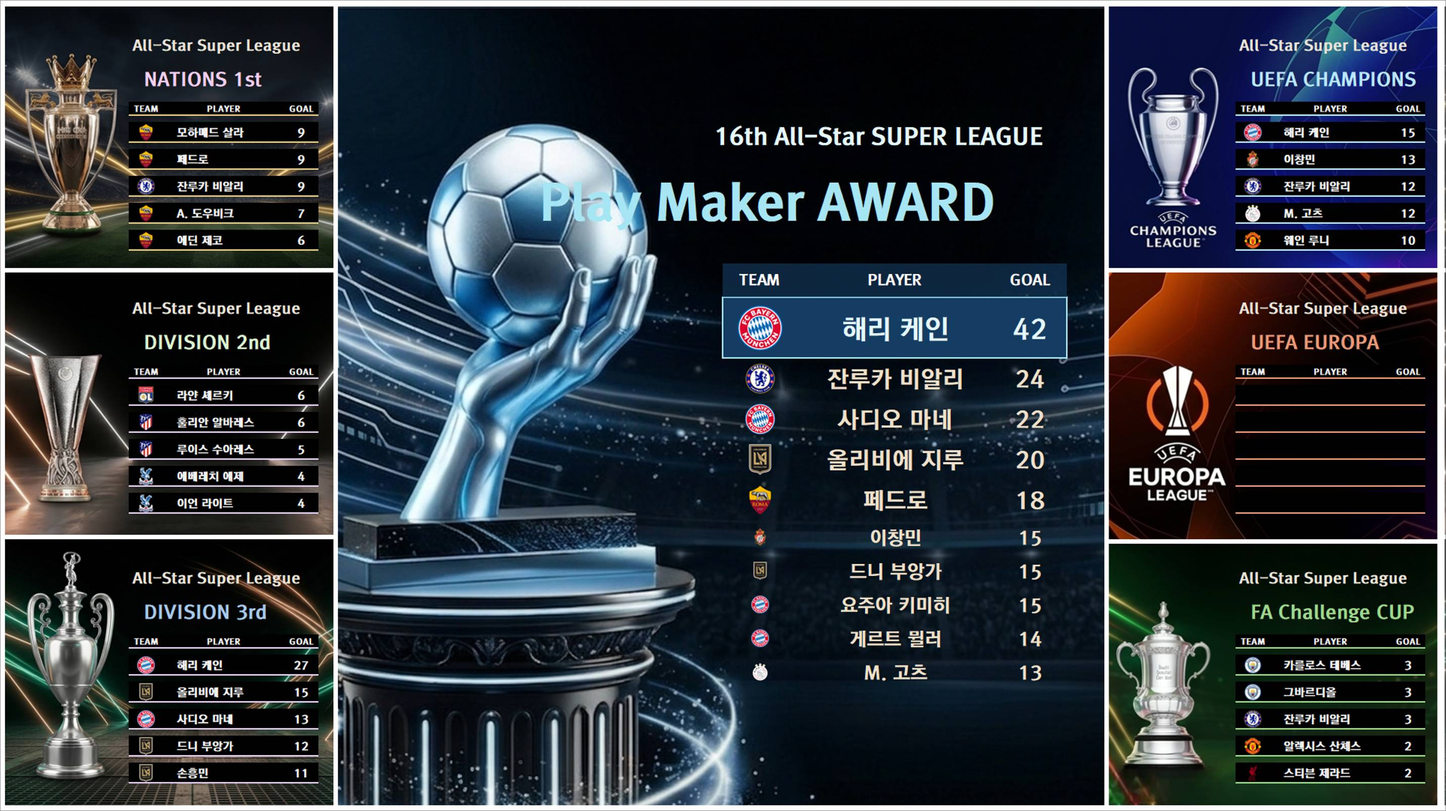
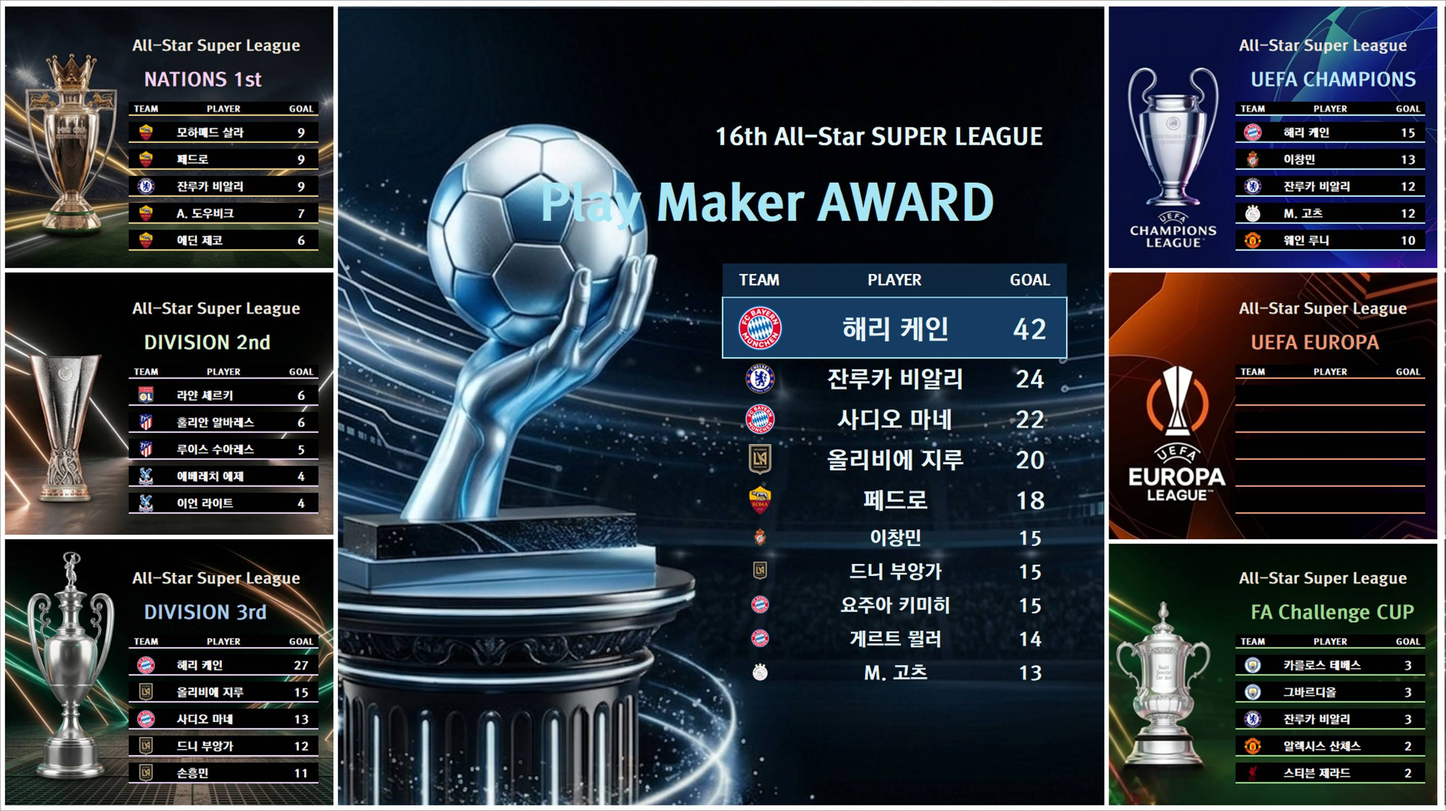
Optimize: 10:55:45

Changed region(s): [[0.5908, 0.6538, 0.653, 0.8406], [0.5597, 0.4359, 0.653, 0.5293], [0.5597, 0.5604, 0.6841, 0.6227]]

diff --git a/index.html b/index.html
@@ -75,7 +75,7 @@
         <div class="card"><h2>🏅 FA컵 8강·4강·결승</h2><img src="https://i.ibb.co/KppyCLxB/af9e95054181.jpg" alt="FA컵" loading="lazy"></div>
         <div class="card"><h2>🌟 UCL GROUP</h2><img src="https://i.ibb.co/KcbPzXNS/4886de444da8.jpg" alt="UCL 조별" loading="lazy"></div>
         <div class="card"><h2>⚽ GOLDEN BOOT</h2><img src="https://i.ibb.co/5h6tbQdP/52176942527f.jpg" alt="득점왕" loading="lazy"></div>
-        <div class="card"><h2>🎯 PLAYMAKER</h2><img src="https://i.ibb.co/35qwCL3y/9b072f1e2e94.jpg" alt="플레이메이커" loading="lazy"></div>
+        <div class="card"><h2>🎯 PLAYMAKER</h2><img src="https://i.ibb.co/WvmKGQdB/ebaded59523b.jpg" alt="플레이메이커" loading="lazy"></div>
         <div class="card"><h2>🏆 UCL 토너먼트</h2><img src="https://i.ibb.co/GvkkJqyP/c7cae45958f8.jpg" alt="UCL 토너" loading="lazy"></div>
         <div class="card"><h2>🎖 UEL 토너먼트</h2><img src="https://i.ibb.co/xSMDpJWB/da8521f5354b.jpg" alt="UEL 토너" loading="lazy"></div>
     </div>
